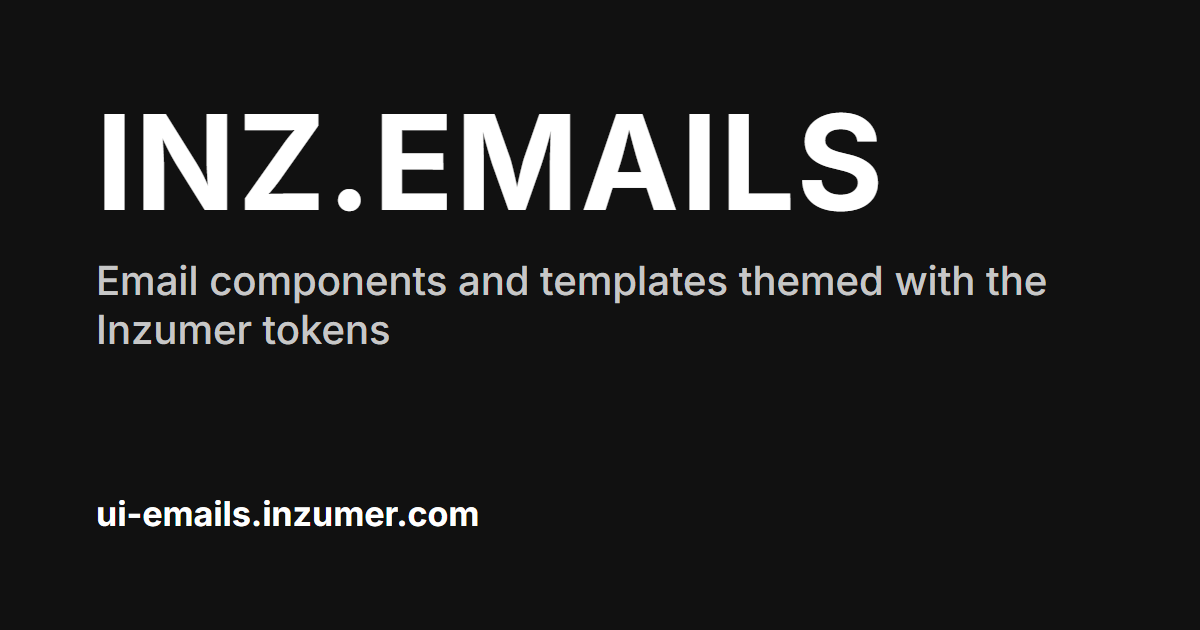
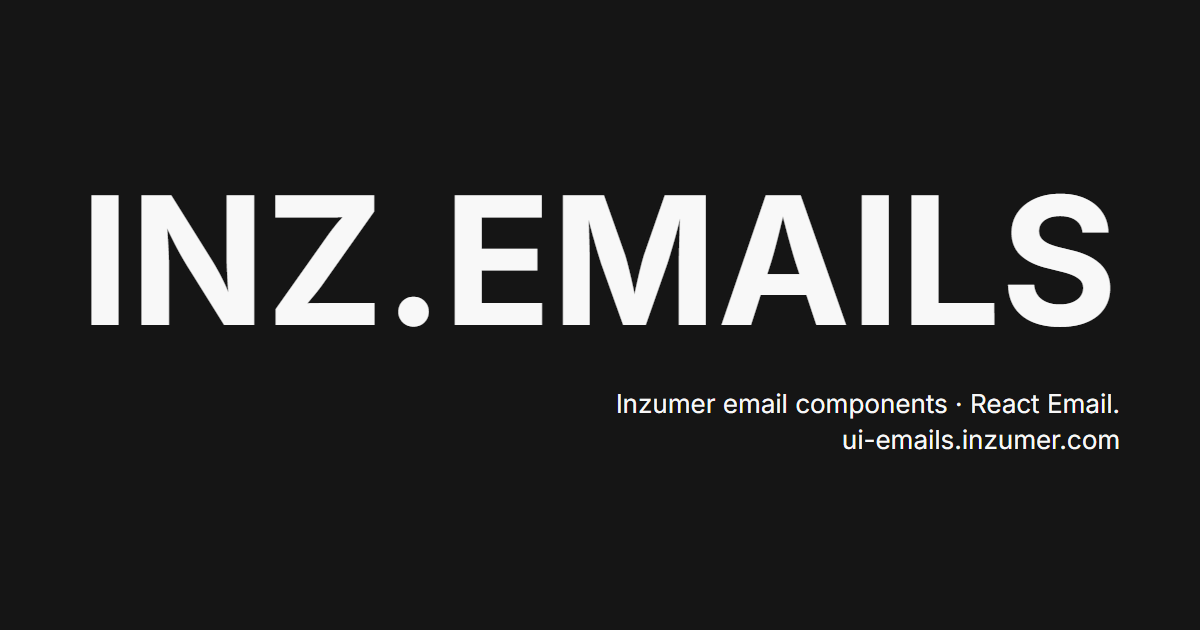
docs(storybook): inzumer.com wordmark and brand images

Changed region(s): [[0.0617, 0.181, 0.925, 0.5429], [0.4933, 0.6333, 0.925, 0.7238], [0.0617, 0.7841, 0.4008, 0.8444]]

diff --git a/.storybook/theme.ts b/.storybook/theme.ts
@@ -3,11 +3,13 @@ import { create } from 'storybook/theming';
 /** Inter, like the titles of inzumer.com (loaded in manager-head.html and preview-head.html). */
 const FONT = "Inter, 'Helvetica Neue', Arial, sans-serif";
 
-/** Sidebar and docs pages: the text logo and the UI in the brand font. */
+/** Sidebar and docs pages: the uppercase wordmark of inzumer.com (#151515, Inter 700, no box). */
 export const theme = create({
   base: 'light',
   fontBase: FONT,
-  brandTitle: `<span style="display:inline-block;padding:4px 10px;border-radius:8px;background:#111111;color:#ffffff;font-family:${FONT};font-weight:700;letter-spacing:0.5px">INZ.EMAILS</span>`,
+  colorPrimary: '#151515',
+  colorSecondary: '#151515',
+  brandTitle: `<span style="font-family:${FONT};font-size:20px;font-weight:700;line-height:1;color:#151515;text-transform:uppercase">INZ.EMAILS</span>`,
   brandUrl: 'https://ui-emails.inzumer.com/',
   brandTarget: '_self',
 });
